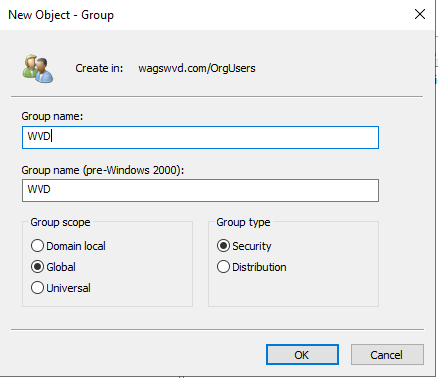
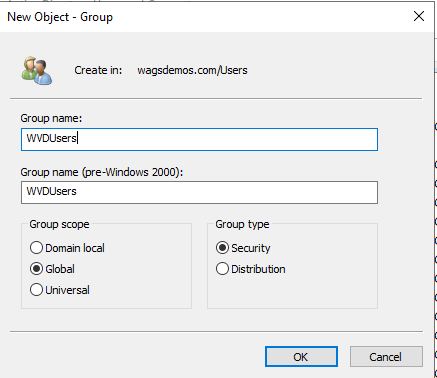
0420 0828

diff --git a/docs/Azure/BootCamps/WVD/Optimize/Optimize-Lab10-FSLogix-Installation-and-Configuration.md b/docs/Azure/BootCamps/WVD/Optimize/Optimize-Lab10-FSLogix-Installation-and-Configuration.md
@@ -10,7 +10,9 @@ In this lab you will install and configure FSLogix to utilize a share on your do
 
     ![WVDGlobalGroup](../attachments/WVDGlobalGroup.PNG)
 
-3. Add the users from the Users OU into the new group called **WVDUsers**.
+3. Add the the following users from the Users OU into the WVDUsers group:
+    * Bob Jones
+    * Julia Williams  called **WVDUsers**.
 
     ![WVDGroupMembers](../attachments/WVDGroupMembers.PNG)
 
